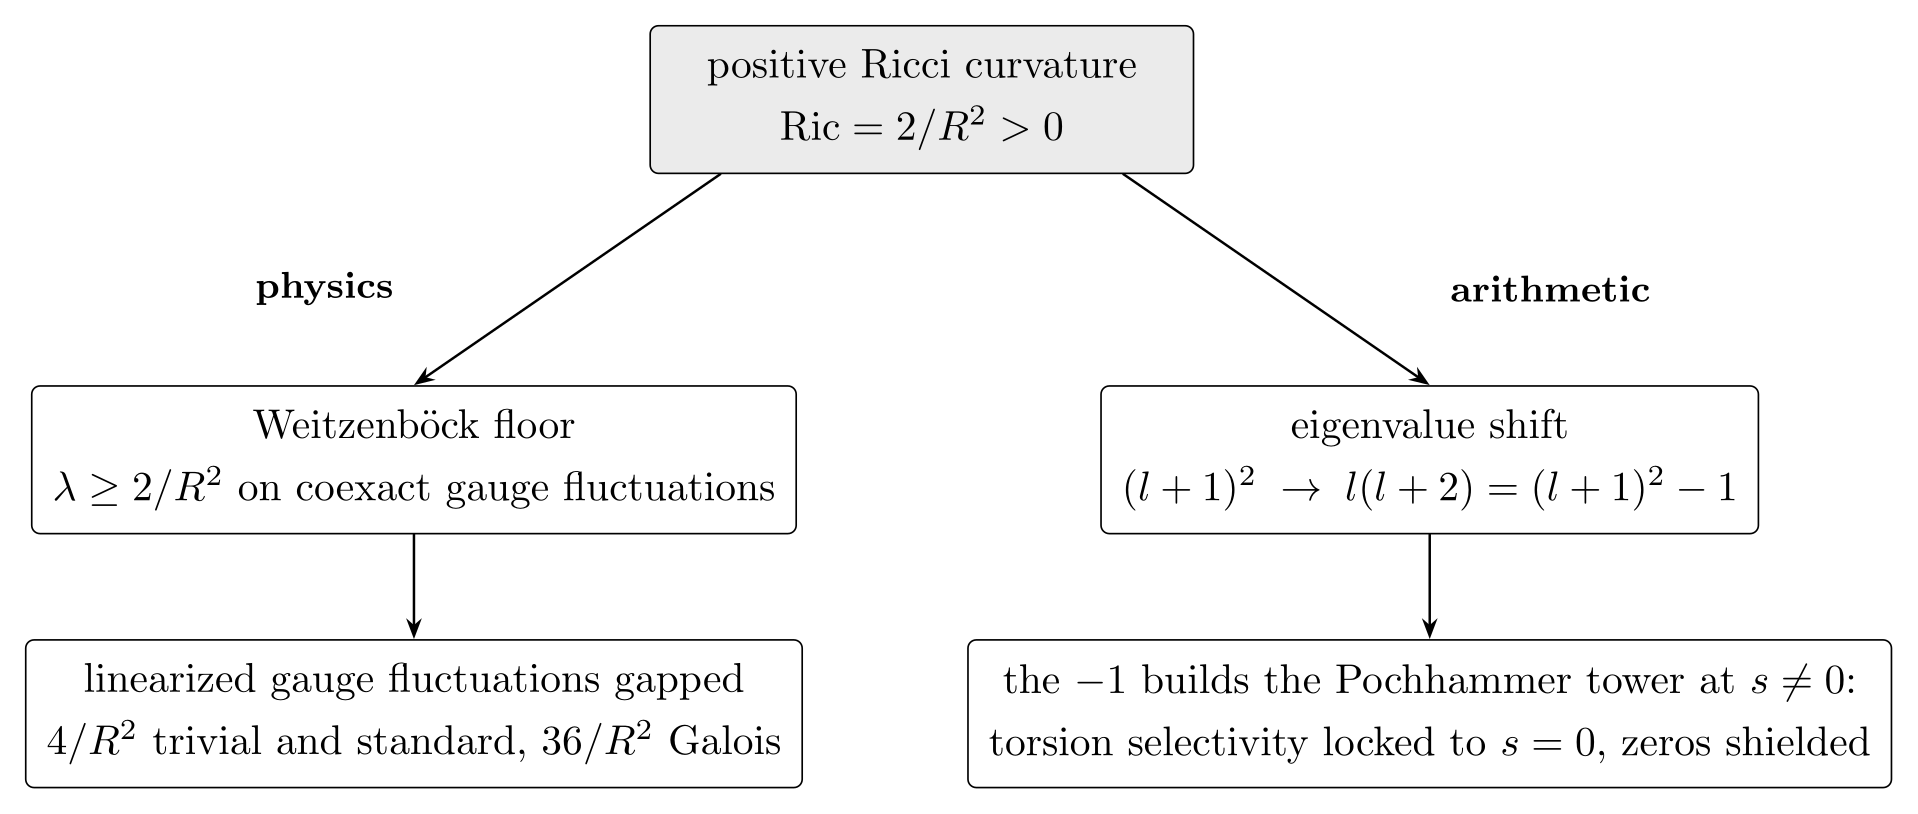
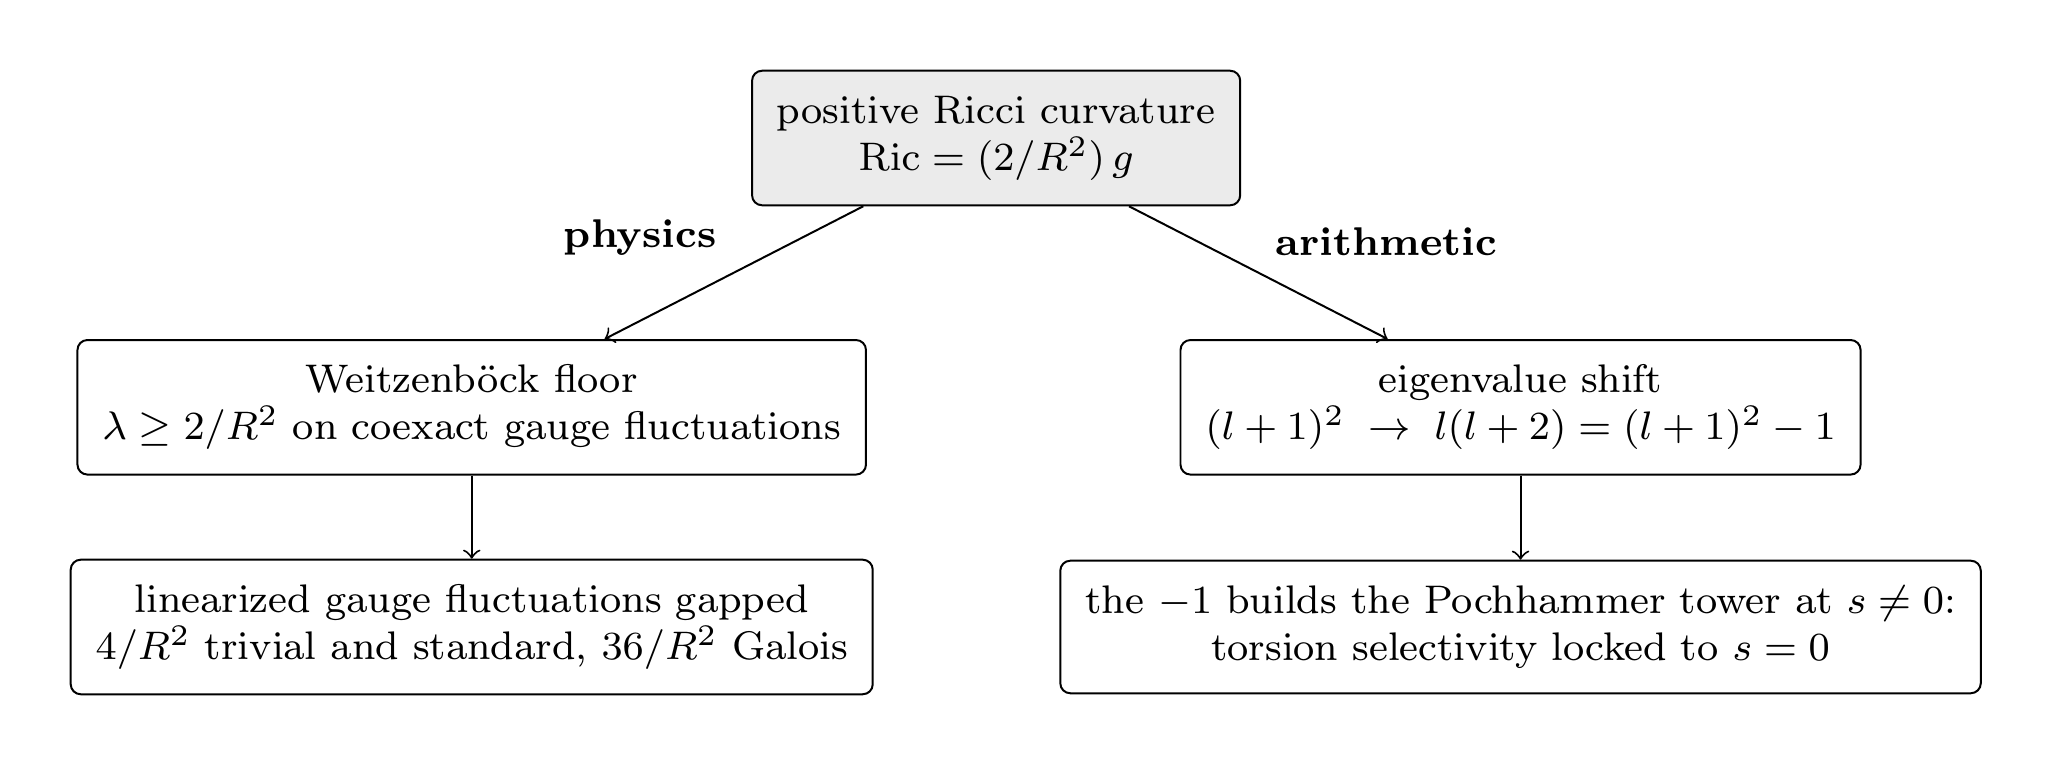
the mirror: section VI's figure drawn again, without "zeros shielded"
The curvature-duality figure still ended "torsion selectivity locked to s = 0, zeros shielded", a
claim the read retired; its alt text had already dropped it. The figure is drawn again from the SSRN
version's TikZ, in the words of its alt text with the Ricci tensor written Ric = (2/R^2) g, and the
alt text follows.

diff --git a/files/spectrum/files/the-mirror.md b/files/spectrum/files/the-mirror.md
@@ -383,7 +383,7 @@ At $`s=0`$ this gives Atiyah, Patodi and Singer's defect $`\cot^2(\alpha/2)`$ fo
 
 ## VI. The Mechanism: Curvature Duality
 
-<p align="center"><img src="https://github.com/dmobius3/mode-identity-theory/blob/main/files/assets/mr-curvature-duality.png?raw=true" width="80%" alt="A fork from positive Ricci curvature, Ric = 2/R^2 > 0. Physics branch: the Weitzenbock floor, lambda at least 2/R^2 on coexact gauge fluctuations, so the linearized gauge fluctuations are gapped, 4/R^2 at the trivial and standard vacua and 36/R^2 at the Galois vacuum. Arithmetic branch: the eigenvalue shift from (l+1)^2 to l(l+2) = (l+1)^2 - 1, whose -1 builds the Pochhammer tower at s not 0, locking the torsion selectivity to s = 0"></p>
+<p align="center"><img src="https://github.com/dmobius3/mode-identity-theory/blob/main/files/assets/mr-curvature-duality.png?raw=true" width="80%" alt="A fork from positive Ricci curvature, Ric = (2/R^2) g. Physics branch: the Weitzenbock floor, lambda at least 2/R^2 on coexact gauge fluctuations, so the linearized gauge fluctuations are gapped, 4/R^2 at the trivial and standard vacua and 36/R^2 at the Galois vacuum. Arithmetic branch: the eigenvalue shift from (l+1)^2 to l(l+2) = (l+1)^2 - 1, whose -1 builds the Pochhammer tower at s not 0, locking the torsion selectivity to s = 0"></p>
 
 *The proof of Theorem 1 is complete at § V. Sections VI to IX give a mechanism behind the scalar route, an interpretation, the scope and a physics application; they do not extend the theorem beyond its class $`\mathcal{L}`$.*
 
